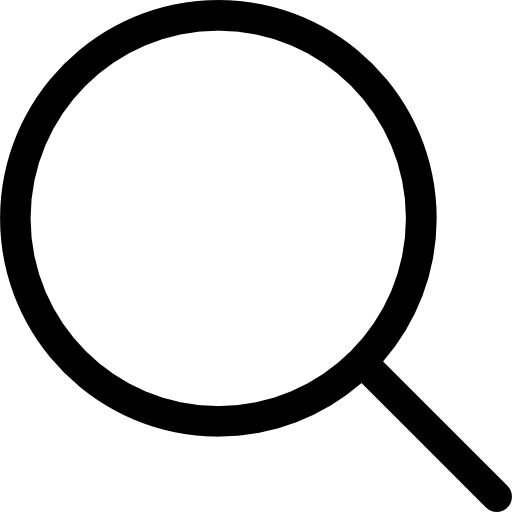
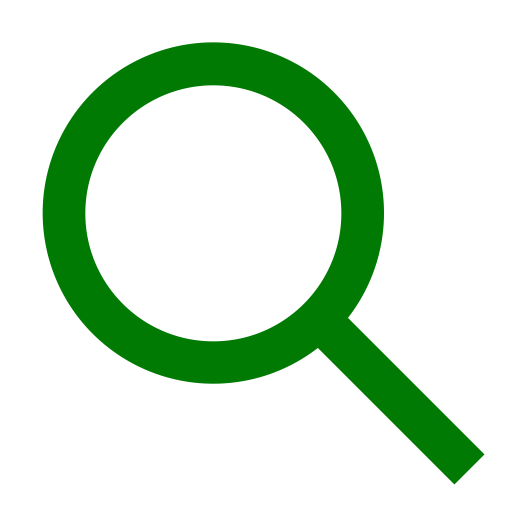
modified:   Profil.png 	modified:   index.html 	modified:   loupe.png 	modified:   styles.css

diff --git a/styles.css b/styles.css
@@ -2,34 +2,39 @@ body{
 	margin: 0;
 	padding: 0;
 	font-family: 'Inter', sans-serif;
-	background-color: #effad5;
+	background-color: #ffffff;
 }
 
 .container {
 	max-width: 1200px;
 	margin: 0 auto;
-	padding: 20px;																																																																																																																																																																																		
+	padding: 20px;
 }
 
 .logo img{
 	float: left;
-	width: 60px;
-	height: 60px;
-	background-color: #effad5 ;
+	width: 50px;
+	height: 50px;
+
+}
+
+.logo img {
+	transform: scale(0.8);
 }
 
 .navigation {
     display: flex;
     justify-content: flex-end;
+	background-color: #ffffff;
 	overflow: hidden;
-	margin-top: 10px;
-	margin-bottom: 30px;
-	background-color: #effad5;
-
+	border-radius: 5px;
+	margin-bottom: 20px;
+	color: #32572f
 }
 
-.nav-link{
+.nav-link {
 	float: right;
+	display: block;
 	color: #666;
 	text-align: center;
 	padding: 14px 16px;
@@ -48,14 +53,50 @@ body{
 	color: #333;
 }
 
-
-
-	
-	
+.content {
+	background-color: #fff;
+	padding: 20px;
+	border-radius: 5px;
+	box-shadow: 0 2px 4px rgba(0, 0, 0, 0.1);
 }
-	.slide-3 {
-	background-image: url("featured-image.jpg");
-	}
+
+.feature-image {
+	margin-bottom: 30px;
+}
+
+.feature-image img {
+	max-width: 100%;
+}
+
+.programmes, .recette {
+	margin-bottom: 50px;
+}
+
+h2 {
+	font-size: 24px;
+	margin-bottom: 20px;
+}
+
+p {
+	font-size: 18px;
+	line-height: 1.5;
+	margin-bottom: 30px;
+}
+
+.cta-button {
+	background-color: #ff7f50;
+	color: #fff;
+	padding: 10px 20px;
+	border: none;
+	border-radius: 5px;
+	font-size: 18px;
+	font-weight: bold;
+	cursor: pointer;
+}
+
+.cta-button:hover {
+	background-color: #ff6347;
+}
 
 .footer {
 	background-color: #f2f2f2;

diff --git a/index.html b/index.html
@@ -4,12 +4,12 @@
 	<meta charset="UTF-8">
 	<meta http-equiv="X-UA-Compatible" content="IE=edge">
 	<meta name="viewport" content="width=device-width, initial-scale=1.0">
-	<title>Healthy-Eating</title>
-	<link rel="shortcut icon" href="/logo.png">
+	<title>Healthy-Eating 2</title>
 	<link rel="stylesheet" href="styles.css">
 	<link rel="preconnect" href="https://fonts.googleapis.com">
     <link rel="preconnect" href="https://fonts.gstatic.com" crossorigin>
     <link href="https://fonts.googleapis.com/css2?family=Inter:wght@100;300&display=swap" rel="stylesheet">
+	<link rel="shortcut icon" type="image/x-icon" href="logo.png">
 </head>
 <body>
 	<div class="container">
@@ -27,8 +27,8 @@
 			<a href="#" class="nav-link"><img src="loupe.png" alt="Loupe"></a>
 		</nav>
 		<main class="content">
-			<div class="featured-image">
-				<img src="featured-image.jpg" alt="featured-image">
+			<div class="future image">
+				<img src="features-image.png" alt="feature-image">
 			</div>
 		</main>
 		<footer class="footer">
